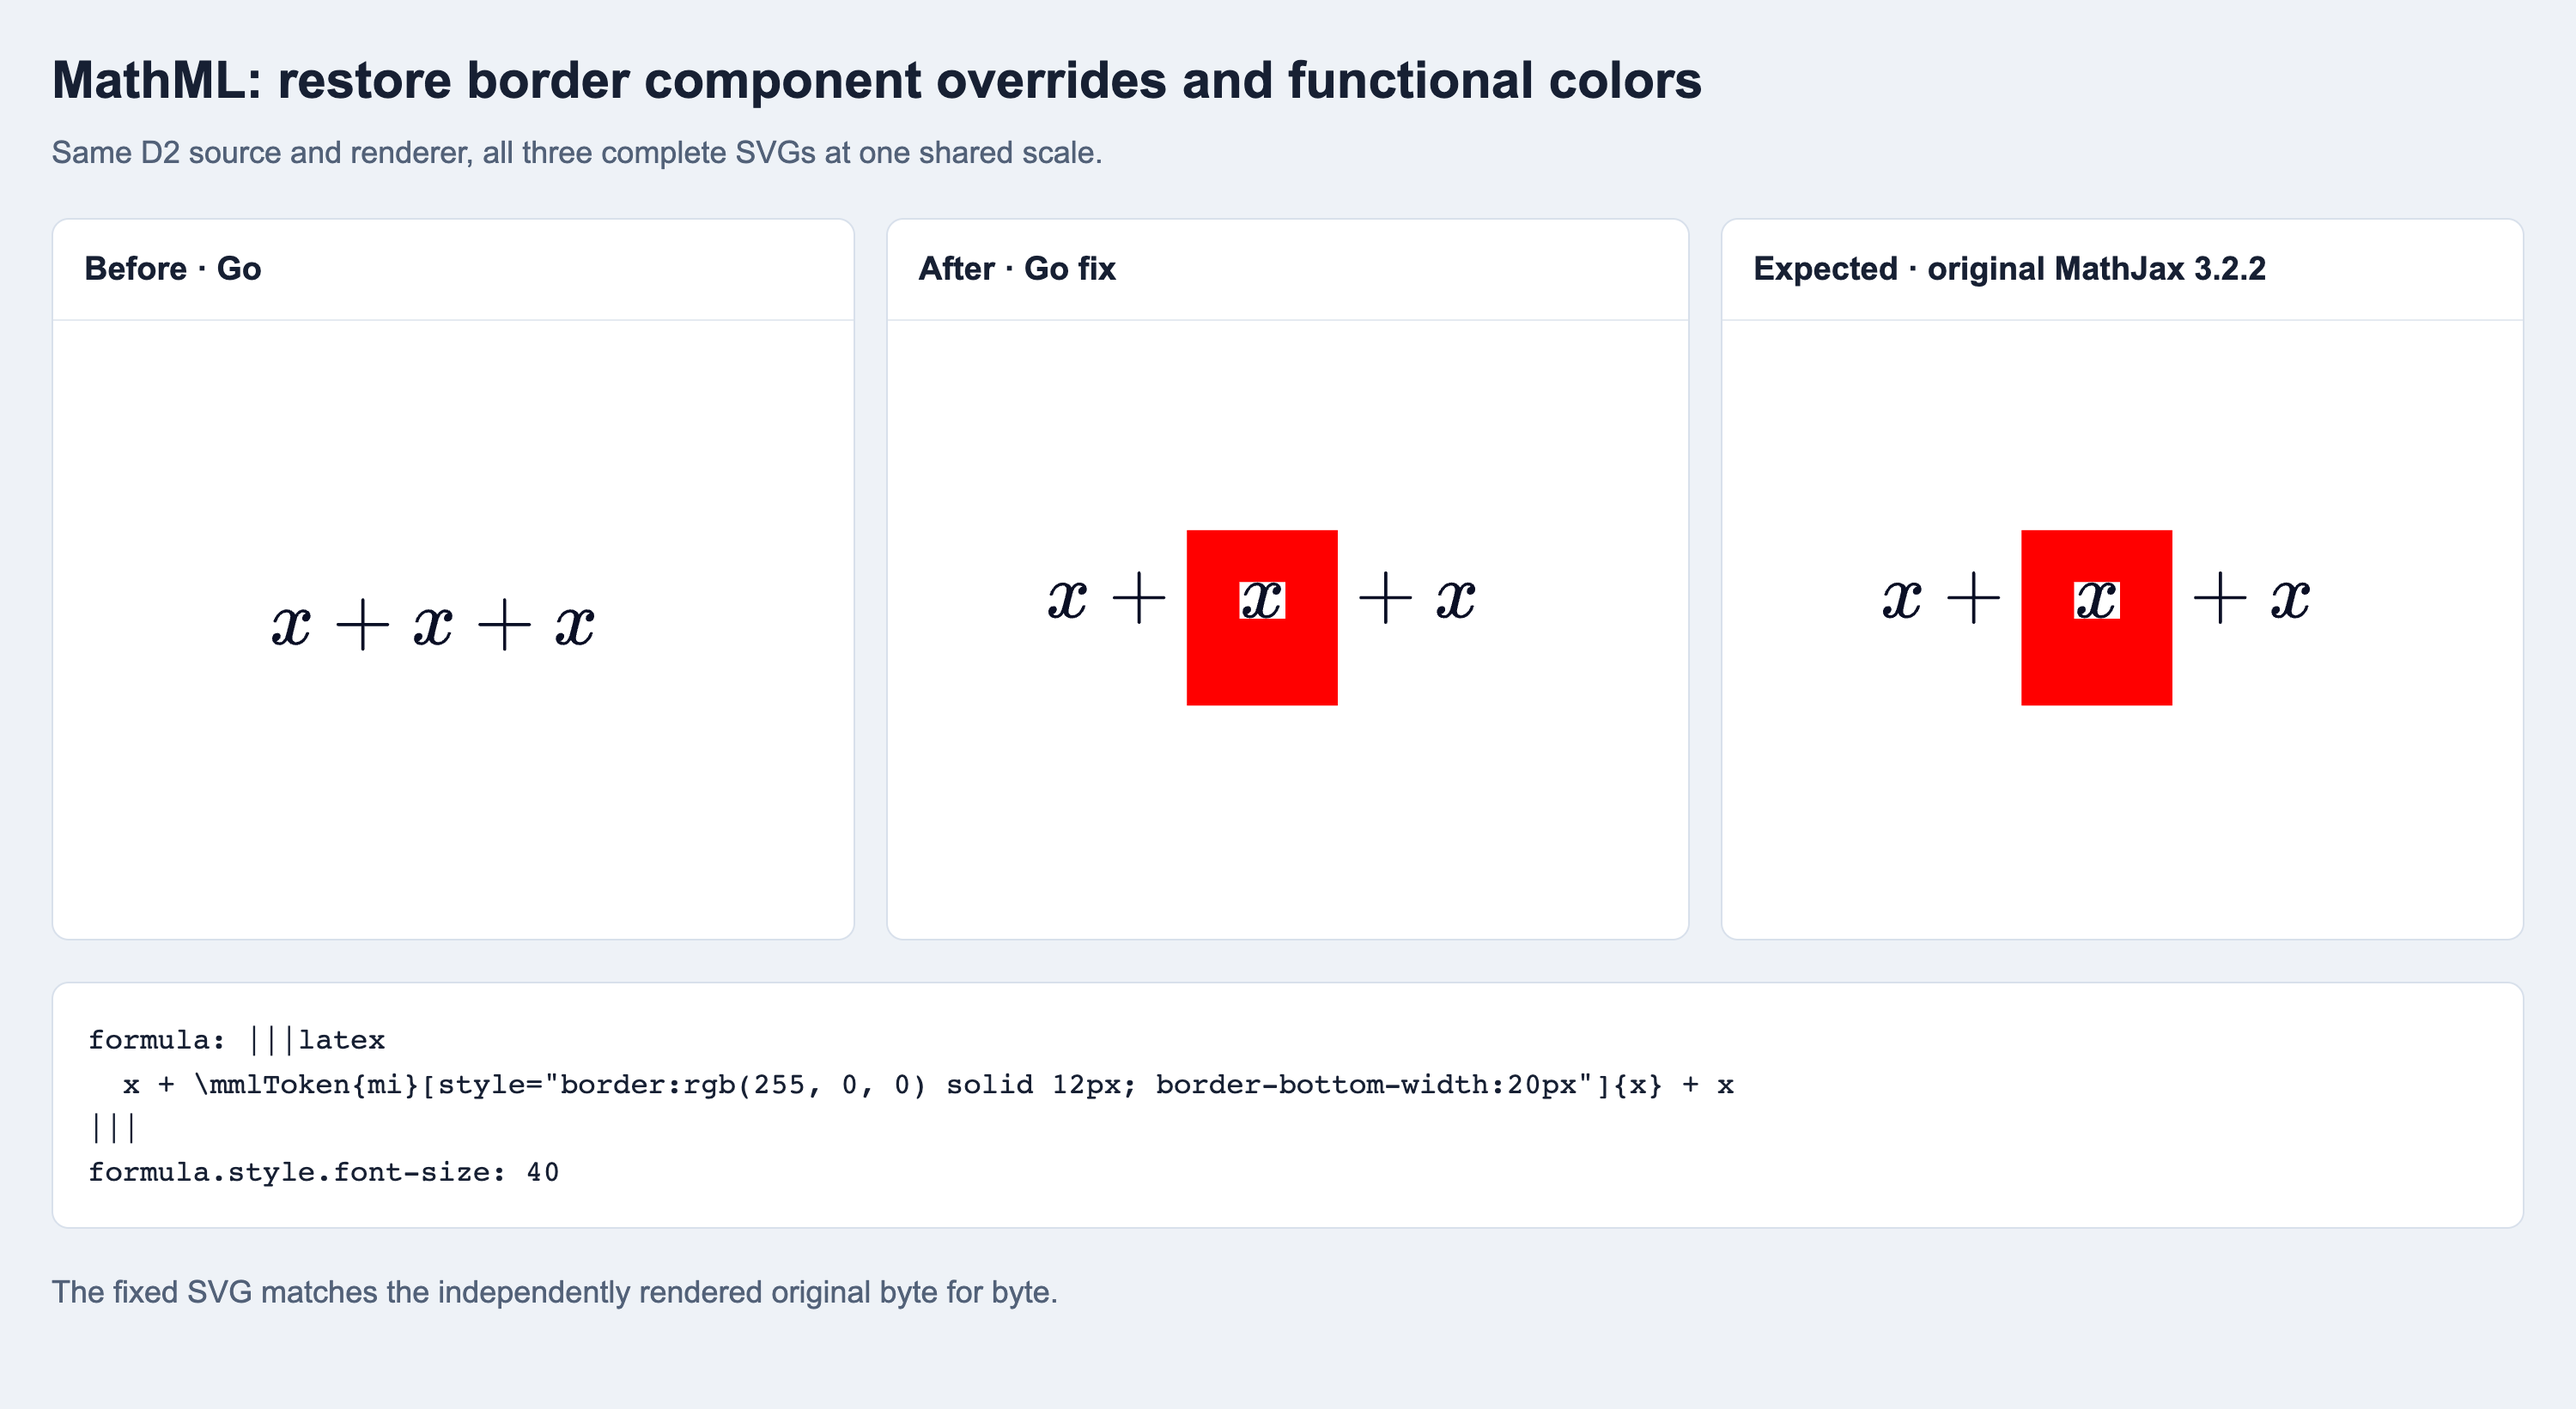
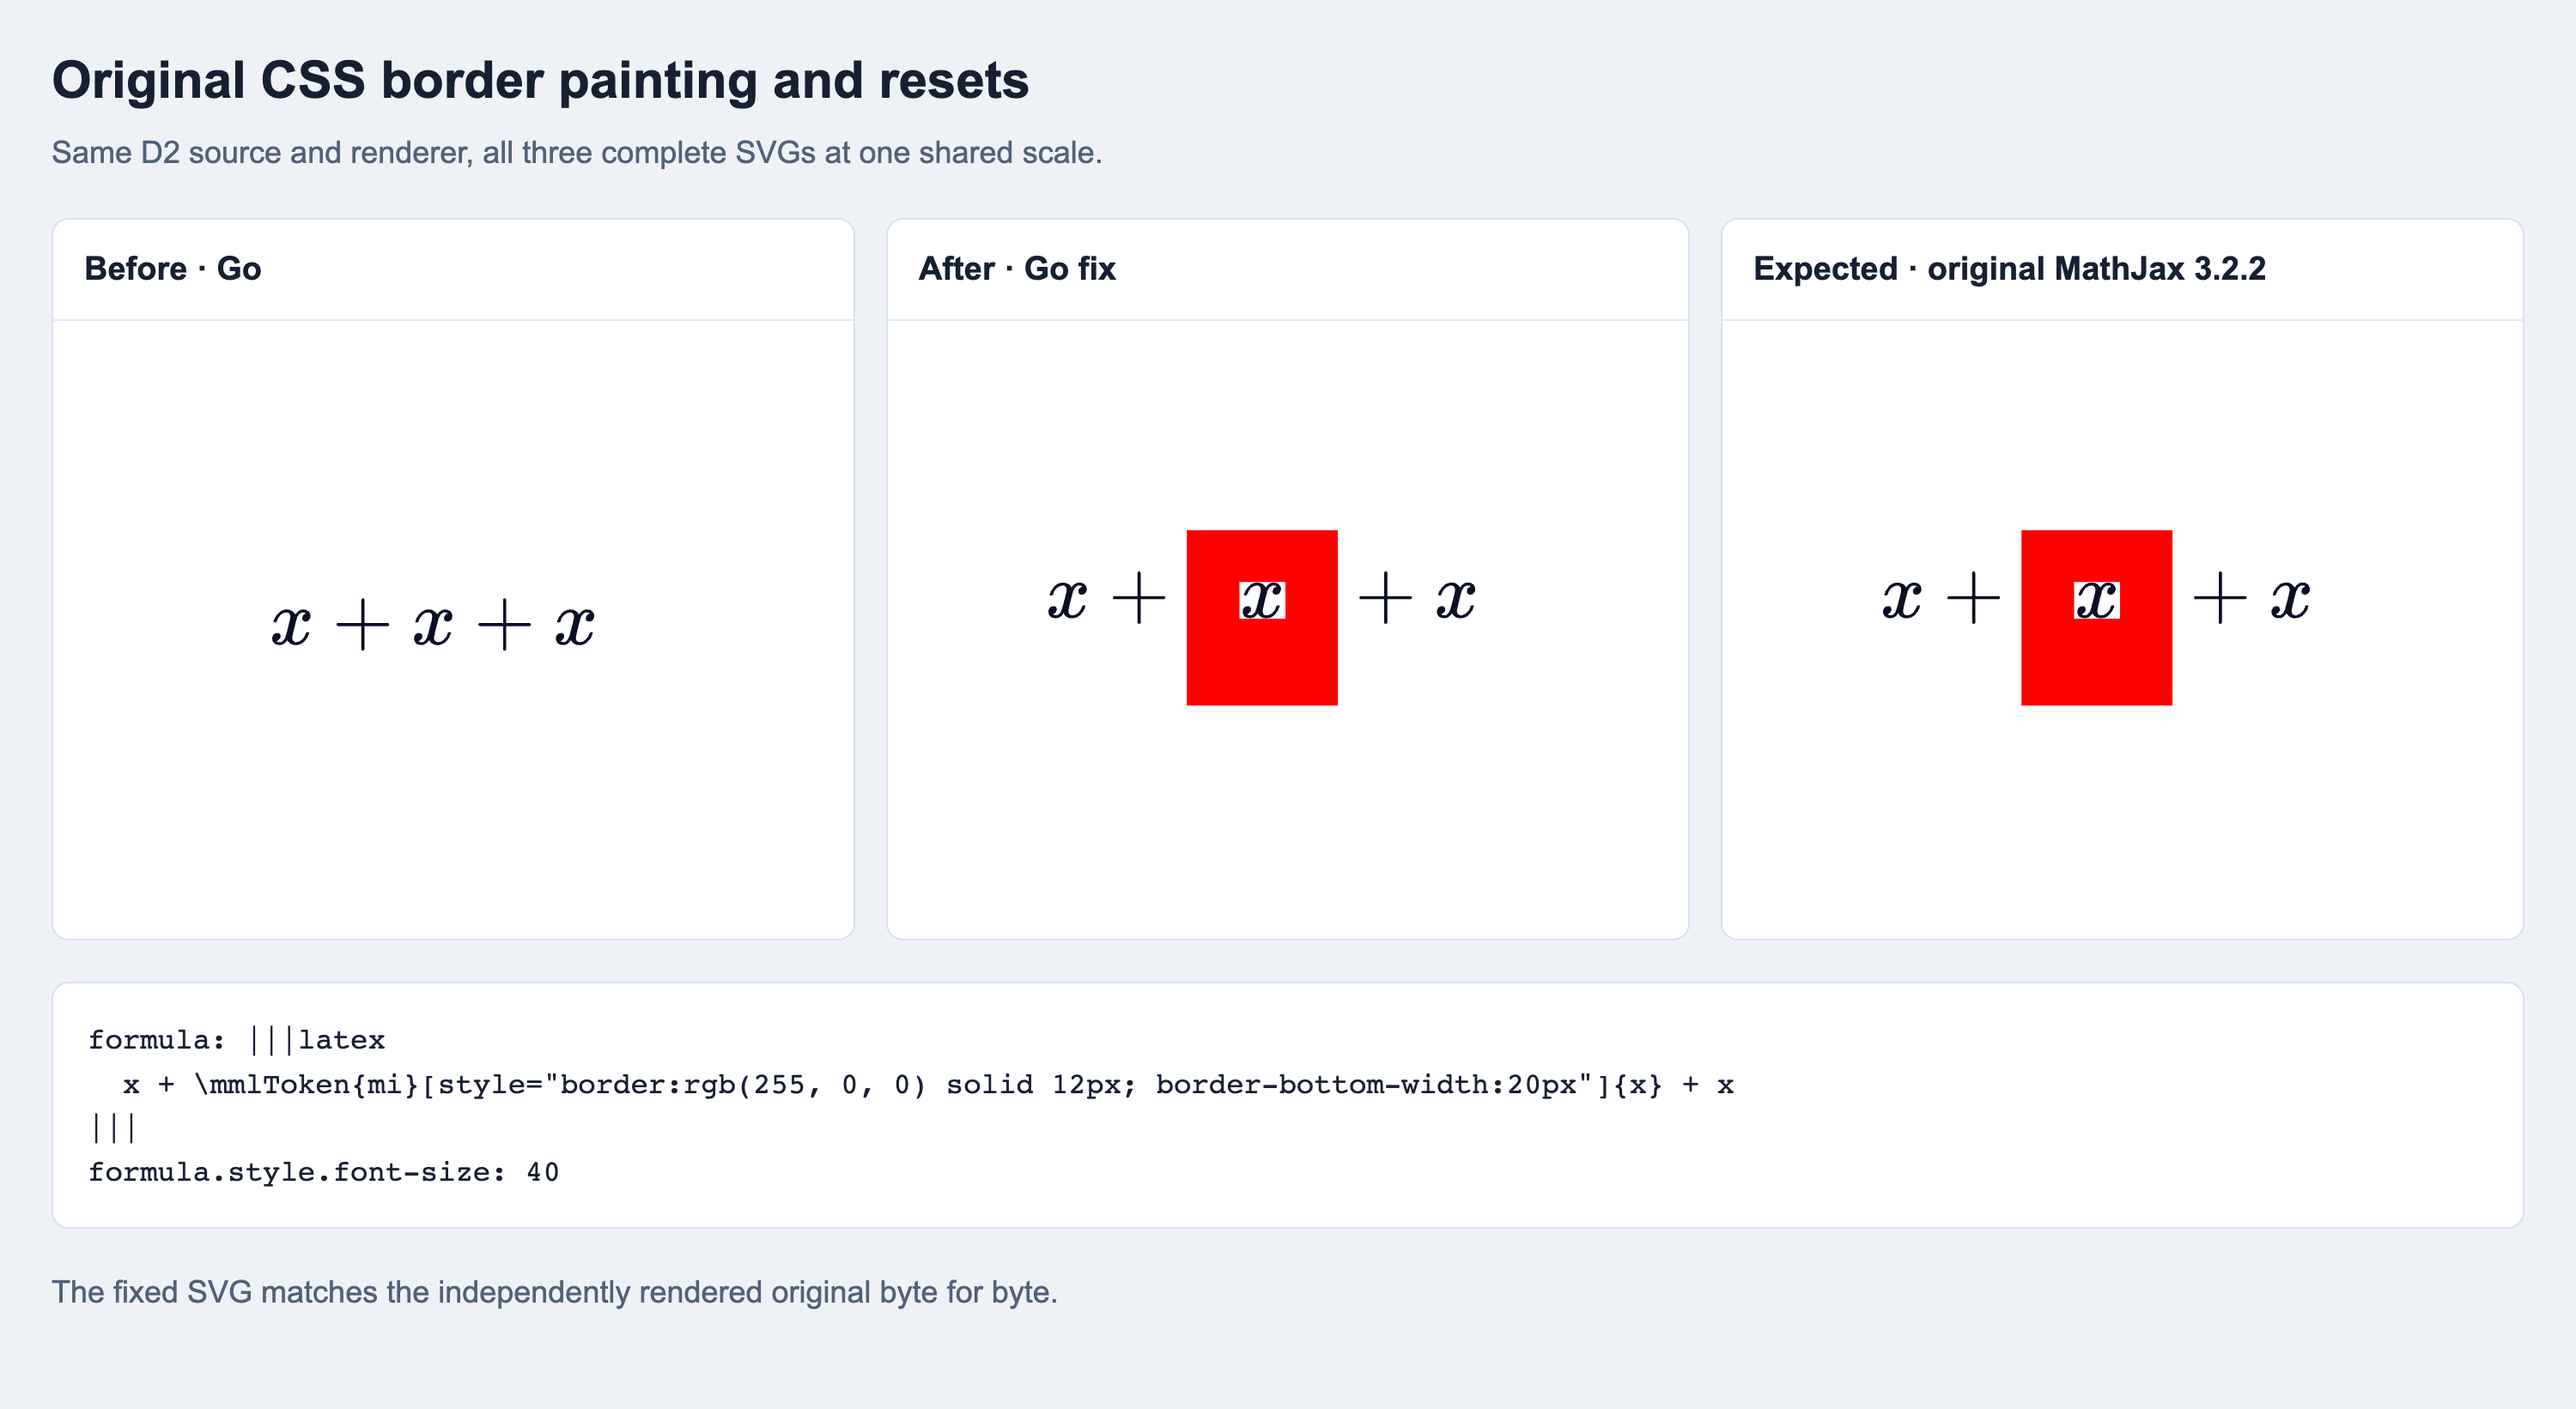
Verify final border source and empty resets through D2
- sent from alixander's Codex

Changed region(s): [[0.0, 0.0311, 0.651, 0.0932]]

diff --git a/testdata/parity/css-border-components/reset/README.md b/testdata/parity/css-border-components/reset/README.md
@@ -1,8 +1,6 @@
-# Original CSS border painting and resets
+# Original empty border reset
 
-This witness exercises functional RGB border color, compact shorthand, and independent side width. The final source also preserves empty resets, JavaScript whitespace, first-split validation boundaries, and original zero-count dashed strokes. The 2,364 complete SVG assertions cover 2,308 distinct inputs; 1,512 assertions differ from the initial baseline and 852 are unchanged controls. An additional 446 direct source Styles/TRBL observations verify scanning and normalization.
-
-[An additional empty-reset comparison](reset/README.md) includes complete before, fixed, and original SVGs and screenshots.
+An empty border-width assignment clears the previously collected border exactly as in the original Styles helper; the visible red border is removed in the independently rendered reference. This secondary witness complements the primary functional RGB/side-width witness.
 
 `comparison.png` is a Chromium screenshot of three complete, untouched D2 SVGs at one shared scale. The fixed/original SVGs and PNGs are byte-identical. The original is independently rendered through D2's hash-verified MathJax 3.2.2 bundle in a fresh runtime. See `manifest.json` for renderer/source revisions and all artifact hashes.
 
